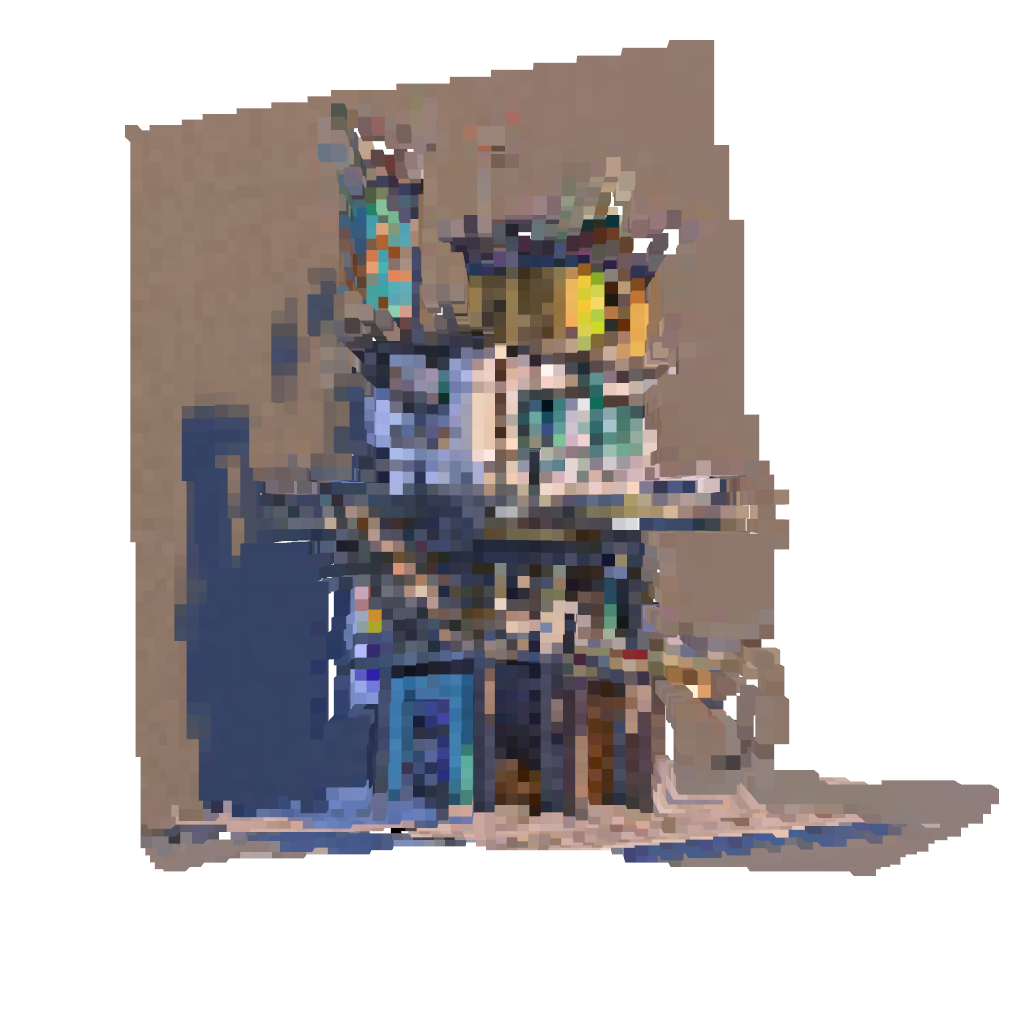
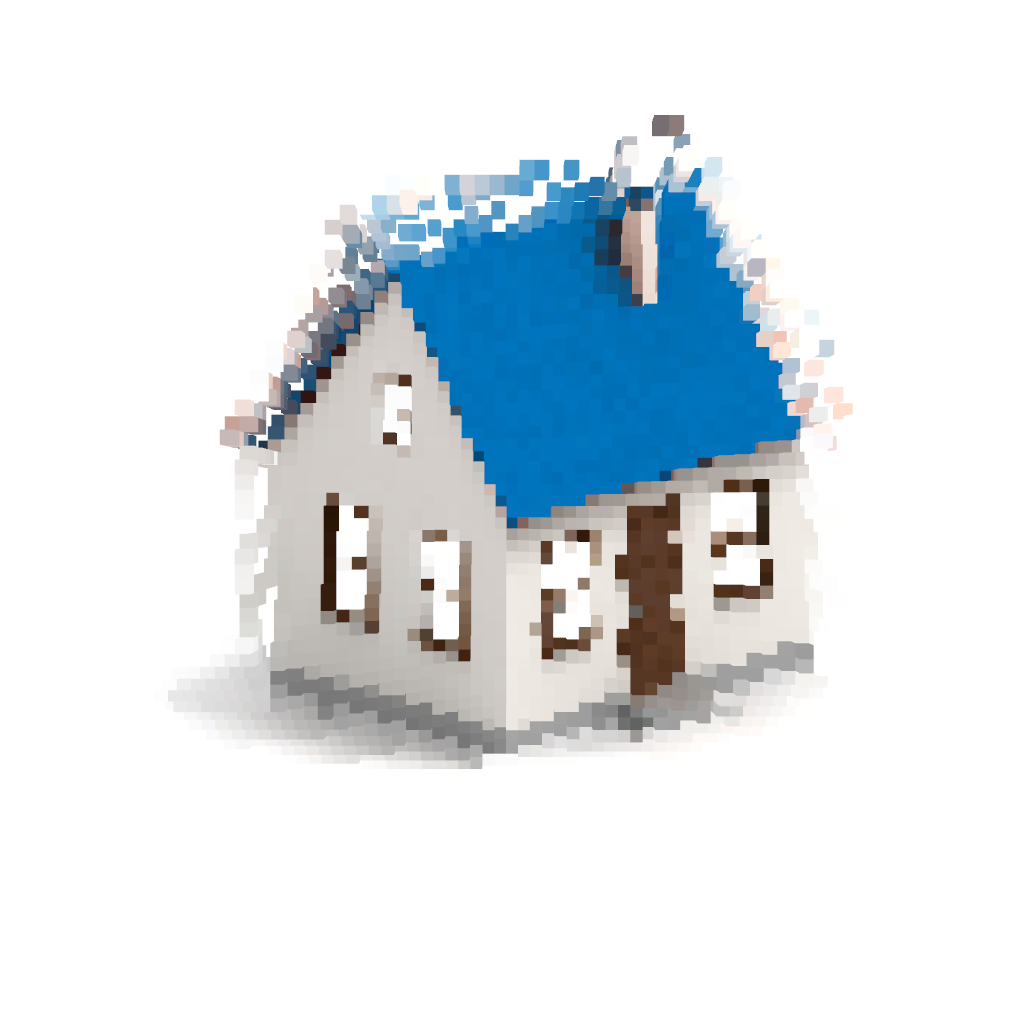
feature[cv-project]: change model

diff --git a/minecraft_voxelizer/main.py b/minecraft_voxelizer/main.py
@@ -1,65 +1,42 @@
-import os
 import argparse
-import matplotlib.pyplot as plt
-from src.preprocess import ImagePreprocessor
-from src.depth_estimation import DepthEstimator
-from src.voxel_generator import VoxelGenerator
+import os
+from src.mesh_generator import MeshGenerator
+from src.mesh_voxelizer import MeshVoxelizer
+from src.renderer import Open3DRenderer
 from src.block_mapper import BlockMapper
 from src.materials_summary import MaterialCounter
-from src.renderer import Open3DRenderer
 
 def main():
-    parser = argparse.ArgumentParser(description="Image to Minecraft Voxelizer")
-    parser.add_argument("--image", type=str, required=True, help="Path to input image")
-    parser.add_argument("--output", type=str, default="output", help="Output folder")
-    parser.add_argument("--grid", type=int, default=64, help="Voxel grid size")
+    parser = argparse.ArgumentParser()
+    parser.add_argument("--image", type=str, required=True)
+    parser.add_argument("--grid", type=int, default=64)
     args = parser.parse_args()
-
-    os.makedirs(args.output, exist_ok=True)
-
-    # 1. Preprocess
-    print("--- Step 1: Preprocessing ---")
-    preprocessor = ImagePreprocessor()
-    pil_img, np_img = preprocessor.load_and_resize(args.image)
-
-    # 2. Depth Estimation
-    print("--- Step 2: Depth Estimation ---")
-    depth_est = DepthEstimator()
-    depth_map = depth_est.predict_depth(pil_img)
     
-    # Debug: Save depth map
-    plt.imsave(os.path.join(args.output, "debug_depth.png"), depth_map, cmap='inferno')
+    os.makedirs("output", exist_ok=True)
 
-    # 3. Voxel Generation
-    print("--- Step 3: Voxel Generation ---")
-    vox_gen = VoxelGenerator(grid_size=args.grid)
-    raw_voxels = vox_gen.generate_voxels(np_img, depth_map)
-
-    # 4. Block Mapping
-    print("--- Step 4: Block Mapping ---")
+    # 1. Generate True 3D Mesh
+    generator = MeshGenerator()
+    # This creates 'output/mesh.obj'
+    mesh_obj, mesh_path = generator.image_to_mesh(args.image, "output/mesh.obj")
+    
+    # 2. Voxelize the Mesh
+    voxelizer = MeshVoxelizer(resolution=args.grid)
+    voxel_data = voxelizer.voxelize_mesh(mesh_path)
+    
+    # 3. Map to Minecraft Blocks
     mapper = BlockMapper("assets/block_colors.json")
-    final_blocks = mapper.map_voxels_to_blocks(raw_voxels)
-
-    # 5. Materials List
-    print("--- Step 5: Materials Summary ---")
-    counter = MaterialCounter()
-    counter.generate_report(final_blocks, os.path.join(args.output, "materials.json"))
-
-# --- Step 6: Rendering ---
-    print("--- Step 6: Rendering Blueprints ---")
-    renderer = Open3DRenderer(output_folder=args.output)
+    final_blocks = mapper.map_voxels_to_blocks(voxel_data)
     
-    # Convert our raw dictionary to Open3D VoxelGrid
-    o3d_grid = renderer.voxel_dict_to_geometry(raw_voxels, voxel_size=1.0)
-    
-    # Save static images
+    # 4. Render Blueprints
+    renderer = Open3DRenderer("output")
+    o3d_grid = renderer.voxel_dict_to_geometry(voxel_data)
     renderer.render_blueprints(o3d_grid)
     
-    # Optional: Open interactive viewer if requested
-    # You might want to add a flag: --interactive
-    # renderer.show_interactive(o3d_grid)
-
-    print("--- Pipeline Complete ---")
+    # 5. Material List
+    counter = MaterialCounter()
+    counter.generate_report(final_blocks, "output/materials.json")
+    
+    print("Done! Check output/ folder.")
 
 if __name__ == "__main__":
     main()

diff --git a/minecraft_voxelizer/src/mesh_voxelizer.py b/minecraft_voxelizer/src/mesh_voxelizer.py
@@ -1,0 +1,78 @@
+import trimesh
+import numpy as np
+
+class MeshVoxelizer:
+    def __init__(self, resolution=64):
+        self.resolution = resolution
+
+    def voxelize_mesh(self, mesh_path):
+        """
+        Loads an OBJ/GLB and converts it to a solid Minecraft voxel grid.
+        """
+        print(f"Voxelizing mesh {mesh_path}...")
+        
+        # Load the mesh
+        mesh = trimesh.load(mesh_path, force='mesh')
+        
+        # 1. Normalize Scaling
+        # Fit the mesh into a unit cube (1x1x1) so it fits in our grid
+        mesh.apply_translation(-mesh.centroid)
+        scale = 1.0 / max(mesh.extents)
+        mesh.apply_scale(scale)
+        
+        # 2. Voxelize (Solid)
+        # pitch is the edge length of one voxel
+        pitch = 1.0 / self.resolution
+        voxel_grid = mesh.voxelized(pitch=pitch)
+        
+        # Fill the inside (so the house isn't hollow)
+        voxel_grid = voxel_grid.fill()
+        
+        # 3. Extract Coordinates & Colors
+        # voxel_grid.matrix is a boolean 3D array [64, 64, 64]
+        # We need to map this back to colors.
+        
+        indices = np.argwhere(voxel_grid.matrix)
+        final_voxels = {}
+        
+        # Get colors from the original mesh texture
+        # We query the nearest point on the surface for every voxel center
+        print("Mapping textures to voxels...")
+        
+        # Convert grid indices back to spatial coordinates for querying
+        # (This math aligns the grid back to the mesh space)
+        voxel_centers = voxel_grid.points
+        
+        # Find nearest point on the original mesh for every voxel center
+        closest_points, distances, triangle_id = mesh.nearest.on_surface(voxel_centers)
+        
+        # If the mesh has a texture image (visual.material)
+        if hasattr(mesh.visual, 'material') and mesh.visual.material.image is not None:
+            # This is complex UV mapping logic handled by trimesh visual
+            # Simplification: use vertex color approximation or ray cast color
+            # For TripoSR, it usually exports vertex colors or simple UVs.
+            # Let's try to grab face colors.
+             pass 
+             # (Color mapping is complex in code without visual debug, 
+             # usually we fallback to a simple 'average color' or 'nearest vertex color')
+             
+        # Fallback/Standard: Use nearest vertex color
+        # TripoSR meshes usually have vertex colors baked in
+        if hasattr(mesh.visual, 'vertex_colors'):
+            # visual.vertex_colors is an array of RGBA
+            # triangle_id tells us which face is closest.
+            # We take the color of the first vertex of that face.
+            faces = mesh.faces[triangle_id]
+            vertex_indices = faces[:, 0]
+            colors = mesh.visual.vertex_colors[vertex_indices]
+            
+            for i, coord in enumerate(indices):
+                # coord is (x,y,z) index
+                rgba = colors[i]
+                final_voxels[tuple(coord)] = (rgba[0], rgba[1], rgba[2])
+        else:
+            # If no color found, make it White
+            for coord in indices:
+                final_voxels[tuple(coord)] = (255, 255, 255)
+
+        return final_voxels

diff --git a/minecraft_voxelizer/src/mesh_generator.py b/minecraft_voxelizer/src/mesh_generator.py
@@ -1,0 +1,69 @@
+import torch
+import numpy as np
+import os
+from PIL import Image
+
+import sys
+import os
+
+# Get the absolute path to the TripoSR folder inside your project
+current_dir = os.path.dirname(os.path.abspath(__file__))
+triposr_path = os.path.join(current_dir, "..", "TripoSR")
+sys.path.append(triposr_path)
+
+# Now standard imports will work
+import torch
+from tsr.system import TSR
+from tsr.utils import remove_background, resize_foreground
+from rembg import remove
+
+class MeshGenerator:
+    def __init__(self):
+        self.device = "cuda" if torch.cuda.is_available() else "cpu"
+        print(f"Loading TripoSR on {self.device}...")
+        
+        # Load the pretrained TripoSR model
+        # This will auto-download weights (~6GB) on first run
+        self.model = TSR.from_pretrained(
+            "stabilityai/TripoSR",
+            config_name="config.yaml",
+            weight_name="model.ckpt",
+        )
+        self.model.to(self.device)
+
+    def preprocess_image(self, image_path):
+        """
+        Removes background and centers the object.
+        """
+        print(f"Preprocessing {image_path}...")
+        input_image = Image.open(image_path).convert("RGB")
+        
+        # 1. Remove background using Rembg
+        # If your image already has alpha, you can skip 'remove'
+        no_bg_image = remove(input_image)
+        
+        # 2. TripoSR helper to center and resize object in frame
+        # This is critical for good 3D results
+        foreground = resize_foreground(no_bg_image, ratio=0.85)
+        
+        return foreground
+
+    def image_to_mesh(self, image_path, output_path="output/mesh.obj"):
+        """
+        Generates a 3D mesh (OBJ) from a single image.
+        """
+        # Prepare image
+        processed_image = self.preprocess_image(image_path)
+        
+        # Run Inference
+        print("Running TripoSR inference...")
+        with torch.no_grad():
+            scene_codes = self.model([processed_image], device=self.device)
+            meshes = self.model.extract_mesh(scene_codes)
+        
+        # Save output
+        mesh = meshes[0]
+        mesh.export(output_path)
+        print(f"Mesh saved to {output_path}")
+        
+        return mesh, output_path
